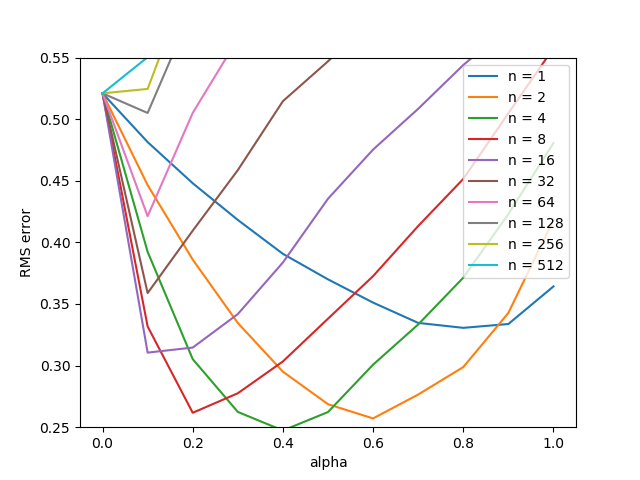
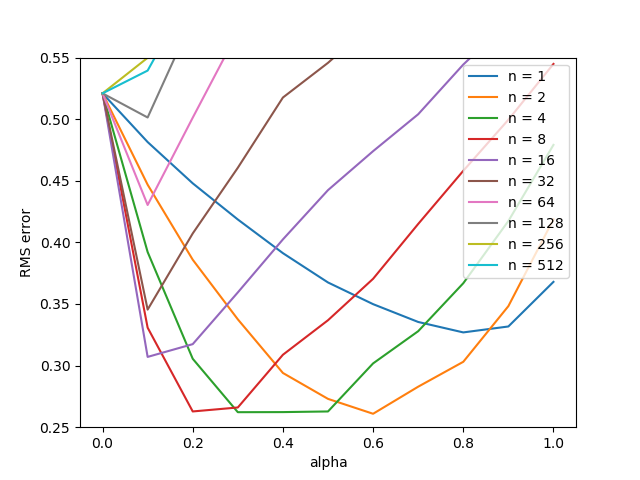
TD and basis

diff --git a/Chap_9/my_random_walk.py b/Chap_9/my_random_walk.py
@@ -62,6 +62,55 @@ class Actions(object):
     return value
 
 
+class Value(object):
+  def __init__(self, group_size=100):
+    self.group_size = group_size
+    self.group_num = N_STATES // self.group_size
+    self.get_params()
+
+  def get_params(self):
+    self.params = np.zeros(self.group_num)
+
+  def value(self, state):
+    if state in END_STATES:
+      return 0
+    group_index = (state - 1) // self.group_size
+    return self.params[group_index]
+
+  def update(self, delta, state):
+    group_index = (state - 1) // self.group_size
+    self.params[group_index] += delta
+
+
+class BasisValue(object):
+  def __init__(self, method, order):
+    self.method = method
+    self.order = order
+    self.get_params()
+
+  def get_params(self):
+    self.params = np.zeros(self.order + 1)
+
+  def get_features(self, state):
+    state /= float(N_STATES)
+    features = np.zeros(self.order + 1)
+    if self.method == 'poly':
+      for i in range(self.order + 1):
+        features[i] = np.power(state, i)
+    else:
+      for i in range(self.order + 1):
+        features[i] = np.cos(i * np.pi * state)
+    return features
+
+  def value(self, state):
+    features = self.get_features(state)
+    return np.dot(self.params, features)
+
+  def update(self, delta, state):
+    gradient = self.get_features(state)
+    self.params += delta * gradient
+
+
 def transition(state, action):
   new_state = np.clip(state + action, END_STATES[0], END_STATES[1])
   if new_state == END_STATES[0]:
@@ -73,16 +122,46 @@ def transition(state, action):
   return reward, new_state
 
 
-def gradient_Monte_Carlo(value, actions, distribution, alpha=0.1):
+def gradient_Monte_Carlo(value, actions, distribution=None, alpha=0.1):
   state = START_STATE
   trajectory = []
   while state not in END_STATES:
     trajectory.append(state)
     reward, state = transition(state, actions.get_action())
   for state in trajectory:
-    group_state = (state - 1) // STEP_RANGE
-    distribution[state] += 1
-    value[group_state] += alpha * (reward - value[group_state])
+    if distribution is not None:
+      distribution[state] += 1
+    delta = alpha * (reward - value.value(state))
+    value.update(delta, state)
+
+
+def gradient_TD(value, actions, alpha=0.1, n=1, group_size=100):
+  T = np.float('inf')
+  t = 0
+  reward_sequence = np.zeros(n)
+  state_sequence = [START_STATE for i in range(n)]
+  while True:
+    if t < T:
+      reward, state = transition(state_sequence[-1], actions.get_action())
+      reward_sequence[:-1] = reward_sequence[1:]
+      reward_sequence[-1] = reward
+      if state in END_STATES:
+        T = t + 1
+    else:
+      reward_sequence[:-1] = reward_sequence[1:]
+      reward_sequence[-1] = 0
+    tau = t - n + 1
+    if tau >= 0:
+      G = np.sum(reward_sequence)
+      if tau + n < T:
+        G += value.value(state)
+      delta = alpha * (G - value.value(state_sequence[0]))
+      value.update(delta, state_sequence[0])
+    state_sequence[:-1] = state_sequence[1:]
+    state_sequence[-1] = state
+    if tau == (T - 1):
+      break
+    t += 1
 
 
 def fig_9_1(true_value):
@@ -90,12 +169,13 @@ def fig_9_1(true_value):
   alpha = 2e-5
 
   actions = Actions()
-  group_value = np.zeros(N_STATES // STEP_RANGE)
+  value = Value(100)
+  # group_value = np.zeros(N_STATES // STEP_RANGE)
   distribution = np.zeros(N_STATES + 1)
   for ep in tqdm(range(episodes)):
-    gradient_Monte_Carlo(group_value, actions, distribution, alpha)
+    gradient_Monte_Carlo(value, actions, distribution, alpha)
   distribution /= np.sum(distribution)
-  state_values = [group_value[i // STEP_RANGE] for i in range(N_STATES)]
+  state_values = [value.value(i) for i in range(1, N_STATES + 1)]
 
   plt.figure(figsize=(10, 20))
 
@@ -116,6 +196,102 @@ def fig_9_1(true_value):
   plt.close()
 
 
+def fig_9_2_left(true_value):
+  episodes = int(1e5)
+  alpha = 2e-4
+
+  actions = Actions()
+  value = Value()
+  for ep in tqdm(range(episodes)):
+    gradient_TD(value, actions, alpha=alpha)
+  state_values = [value.value(i) for i in range(1, N_STATES + 1)]
+  plt.plot(STATES, state_values, label='Approximate TD value')
+  plt.plot(STATES, true_value[1: -1], label='True value')
+  plt.xlabel('State')
+  plt.ylabel('Value')
+  plt.legend()
+
+
+def fig_9_2_right(true_value):
+  actions = Actions()
+  ns = np.power(2, np.arange(10))
+  periods = 10
+  runs = 100
+  alphas = np.arange(0, 1.1, 0.1)
+  RMS = np.zeros((len(ns), len(alphas)))
+  for r in tqdm(range(runs), ncols=64):
+    for i, n in enumerate(ns):
+      for j, alpha in enumerate(alphas):
+        value = Value(50)
+        for p in range(periods):
+          gradient_TD(value, actions, alpha=alpha, n=n, group_size=50) 
+          state_values = np.asarray([value.value(i) for i in range(1, N_STATES + 1)])
+          RMS[i, j] += np.sqrt(np.mean(np.square(state_values - true_value[1: -1])))
+  RMS /= (runs * periods)
+  for i in range(0, len(ns)):
+    plt.plot(alphas, RMS[i, :], label='n = %d' % (ns[i]))
+  plt.xlabel('alpha')
+  plt.ylabel('RMS error')
+  plt.ylim([0.25, 0.55])
+  plt.legend()
+
+
+def fig_9_2(true_value):
+  plt.figure(figsize=(10, 20))
+  plt.subplot(2, 1, 1)
+  fig_9_2_left(true_value)
+  plt.subplot(2, 1, 2)
+  fig_9_2_right(true_value)
+
+  plt.savefig('../images/figure_9_2.png')
+  plt.close()
+
+
+def fig_9_5(true_value):
+  runs = 1
+
+  episodes = 5000
+
+  # # of bases
+  orders = [5, 10, 20]
+
+  alphas = [1e-4, 5e-5]
+  labels = [['polynomial basis'] * 3, ['fourier basis'] * 3]
+
+  # track errors for each episode
+  actions = Actions()
+  errors = np.zeros((len(alphas), len(orders), episodes))
+  for run in range(runs):
+    for i in range(len(orders)):
+      value_functions = [BasisValue('poly', orders[i]), BasisValue('fourier', orders[i])]
+      for j in range(len(value_functions)):
+        for episode in tqdm(range(episodes)):
+
+          # gradient Monte Carlo algorithm
+          gradient_Monte_Carlo(value_functions[j], actions, alpha=alphas[j])
+
+          # get state values under current value function
+          state_values = [value_functions[j].value(state) for state in STATES]
+
+          # get the root-mean-squared error
+          errors[j, i, episode] += np.sqrt(np.mean(np.power(true_value[1: -1] - state_values, 2)))
+
+  # average over independent runs
+  errors /= runs
+
+  for i in range(len(alphas)):
+    for j in range(len(orders)):
+      plt.plot(errors[i, j, :], label='%s order = %d' % (labels[i][j], orders[j]))
+  plt.xlabel('Episodes')
+  plt.ylabel('RMSVE')
+  plt.legend()
+
+  plt.savefig('../images/figure_9_5.png')
+  plt.close()
+
+
 if __name__ == '__main__':
   true_value = compute_true_value()
-  fig_9_1(true_value)
+  # fig_9_1(true_value)
+  # fig_9_2(true_value)
+  fig_9_5(true_value)

diff --git a/Chap_7/my_random_walk.py b/Chap_7/my_random_walk.py
@@ -74,7 +74,7 @@ def n_step_TD(n, alpha, value, actions):
     if tau >= 0:
       G = np.sum(reward_sequence * gamma_sequence)
       if tau + n < T:
-        G += value[state]
+        G += gamma_sequence[-1] * GAMMA * value[state]
       value[state_sequence[0]] += alpha * (G - value[state_sequence[0]])
     state_sequence[0: -1] = state_sequence[1:]
     state_sequence[-1] = state

diff --git a/Chap_9/random_walk.py b/Chap_9/random_walk.py
@@ -466,7 +466,7 @@ def figure_9_10(true_value):
 if __name__ == '__main__':
   true_value = compute_true_value()
 
-  figure_9_1(true_value)
+  # figure_9_1(true_value)
   # figure_9_2(true_value)
-  # figure_9_5(true_value)
+  figure_9_5(true_value)
   # figure_9_10(true_value)

diff --git a/test.py b/test.py
@@ -1,5 +1,18 @@
 import numpy as np
 import random
 
-a = np.array([[1, 2], [3, 4]])
-print(bool(1e-4))
+GLO = 10
+
+
+def f():
+	print(GLO)
+
+
+def f2():
+	global GLO
+	GLO = 5
+	print(GLO)
+	f()
+
+
+f2()
